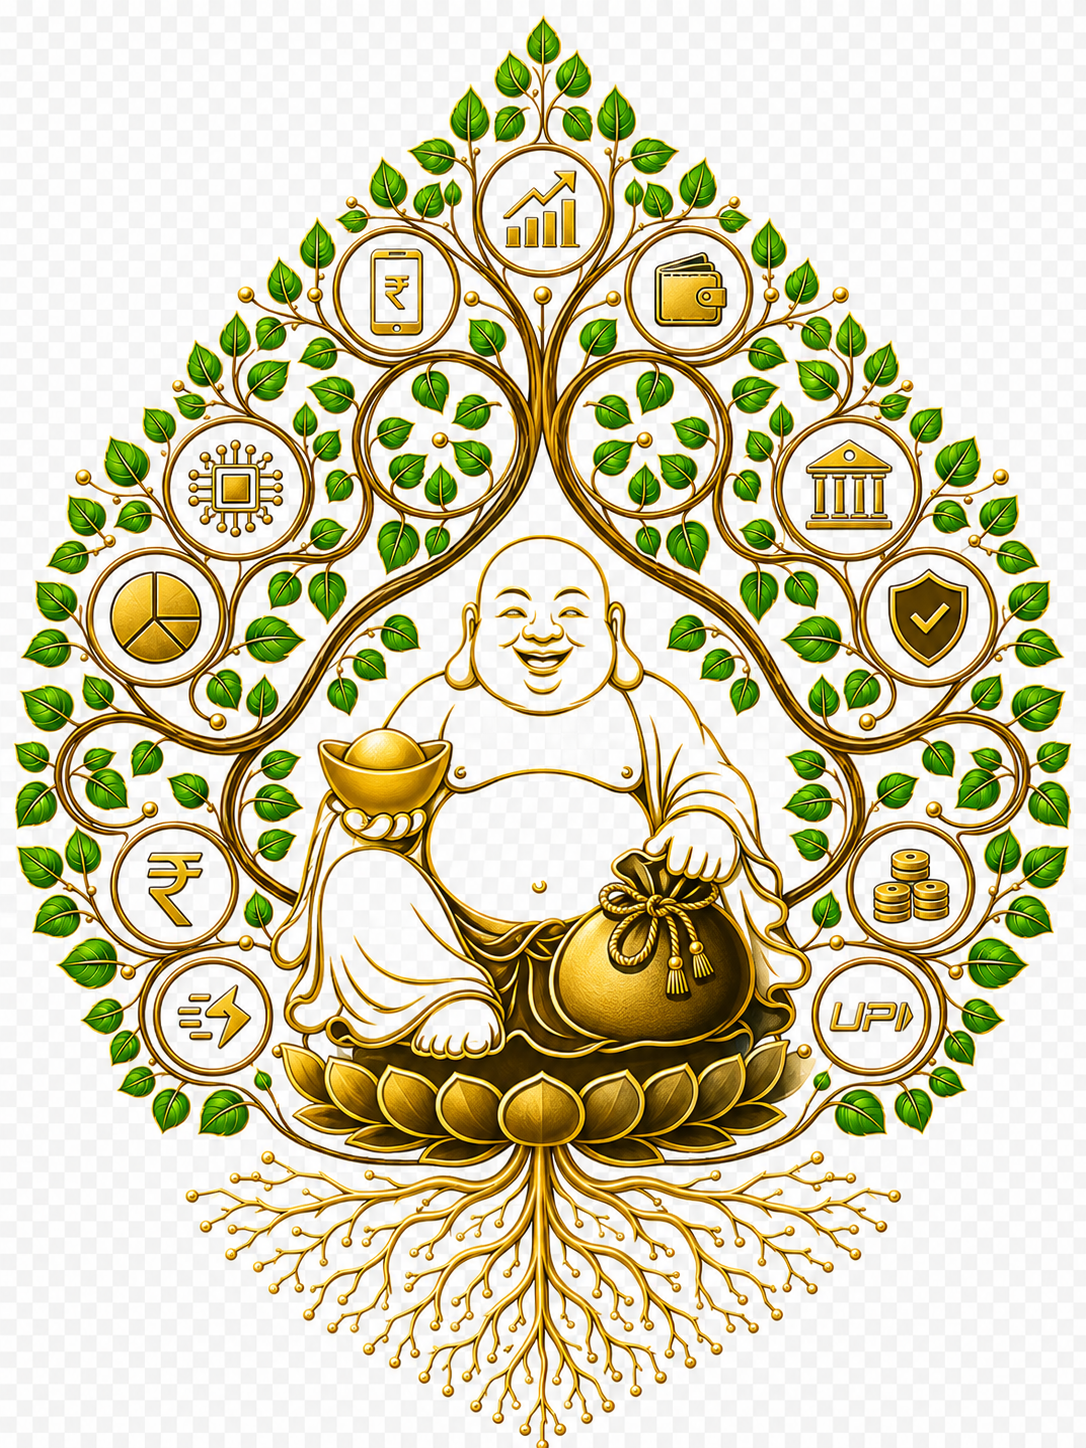
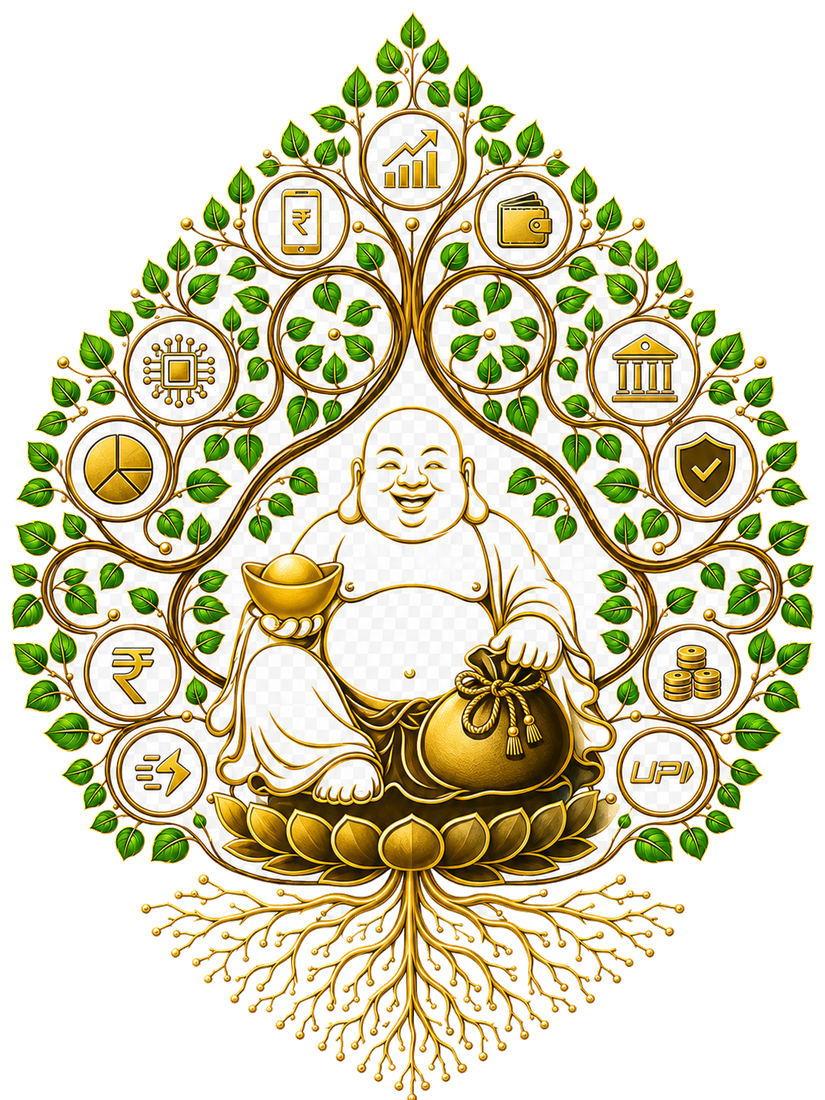
Landing: transparent emblem + FinTech "money flowing" background
- images/bodhi-fibo.png: the source was RGB (opaque) so its white background showed
  as a box on the dark landing. Flood-filled the border-connected background to true
  transparency (RGBA), preserving the figure's ink; resized + optimized (2.3MB -> 1.4MB).
  It now reads as a gold/green line emblem on transparency.
- index.html: replaced the plain spark dots with a FinTech ambient background — money
  symbols (₹ $ € £ ¥ ₿ %) and coins gently flowing upward, plus a few sparkles; subtle
  (low alpha) so it never competes with the emblem or copy. Respects reduced-motion.
- Service worker cache bumped to v0.4.0.

Gate green; no CDN.

diff --git a/index.html b/index.html
@@ -170,29 +170,62 @@
   <footer>Open&nbsp;source · MIT · Curated FIBO for financial AI &nbsp;·&nbsp; <a href="https://github.com/AI-First-Community/Bodhi" target="_blank" rel="noopener">inspired by <b>Bodhi&nbsp;Map</b></a></footer>
 
   <script>
+    // FinTech ambient background: money symbols + coins gently "flowing" upward, with a
+    // few sparkle dots. Subtle (low alpha) so it never competes with the emblem or text.
     (function () {
       var c = document.getElementById('spark'), x = c.getContext('2d');
       var DPR = Math.min(window.devicePixelRatio || 1, 2), W, H, parts;
       var reduce = window.matchMedia && window.matchMedia('(prefers-reduced-motion: reduce)').matches;
+      var SYMS = ['₹', '$', '€', '£', '¥', '₿', '%'];   // ₹ $ € £ ¥ ₿ %
       function rnd(a, b){ return a + Math.random() * (b - a); }
       function size(){ W = c.width = innerWidth * DPR; H = c.height = innerHeight * DPR; }
-      function make(){ return { x: rnd(0, W), y: rnd(0, H), r: rnd(.5, 1.8) * DPR, vy: -rnd(.04, .26) * DPR,
-        vx: rnd(-.08, .08) * DPR, ph: rnd(0, 6.28), tw: rnd(.6, 1.7), gold: Math.random() < 0.42 }; }
-      function init(){ size(); var n = Math.max(30, Math.min(80, Math.floor(innerWidth / 18))); parts = []; for (var i=0;i<n;i++) parts.push(make()); }
+      function make(reset){
+        var roll = Math.random();
+        var kind = roll < 0.5 ? 'sym' : (roll < 0.72 ? 'coin' : 'dot');
+        return {
+          kind: kind,
+          x: rnd(0, W), y: reset ? H + rnd(10, 60) * DPR : rnd(0, H),
+          sz: (kind === 'dot' ? rnd(0.6, 1.9) : rnd(11, 26)) * DPR,
+          vy: -rnd(0.06, 0.34) * DPR,            // rising = money flowing up
+          vx: rnd(-0.07, 0.07) * DPR,
+          ph: rnd(0, 6.28), tw: rnd(0.5, 1.5),
+          glyph: SYMS[(Math.random() * SYMS.length) | 0],
+          gold: Math.random() < 0.62,
+          rot: rnd(-0.35, 0.35)
+        };
+      }
+      function init(){ size(); var n = Math.max(26, Math.min(70, Math.floor(innerWidth / 22))); parts = []; for (var i = 0; i < n; i++) parts.push(make(false)); }
+      function drawOne(p, t){
+        var col = p.gold ? '#f3c969' : '#7df0aa';
+        if (p.kind === 'dot'){
+          x.globalAlpha = 0.22 + 0.4 * (0.5 + 0.5 * Math.sin(t * p.tw + p.ph));
+          x.fillStyle = col; x.beginPath(); x.arc(p.x, p.y, p.sz, 0, 6.2832); x.fill();
+        } else if (p.kind === 'coin'){
+          x.globalAlpha = 0.10 + 0.10 * (0.5 + 0.5 * Math.sin(t * p.tw + p.ph));
+          x.strokeStyle = col; x.lineWidth = 1.4 * DPR;
+          x.beginPath(); x.arc(p.x, p.y, p.sz * 0.5, 0, 6.2832); x.stroke();
+          x.beginPath(); x.arc(p.x, p.y, p.sz * 0.28, 0, 6.2832); x.stroke();
+        } else {
+          x.globalAlpha = 0.09 + 0.11 * (0.5 + 0.5 * Math.sin(t * p.tw + p.ph));
+          x.fillStyle = col;
+          x.font = '700 ' + p.sz.toFixed(0) + "px Manrope,-apple-system,system-ui,sans-serif";
+          x.textAlign = 'center'; x.textBaseline = 'middle';
+          x.save(); x.translate(p.x, p.y); x.rotate(p.rot); x.fillText(p.glyph, 0, 0); x.restore();
+        }
+      }
       var t = 0;
       function frame(){
-        x.clearRect(0,0,W,H); t += 0.016;
-        for (var i=0;i<parts.length;i++){
+        x.clearRect(0, 0, W, H); t += 0.016;
+        for (var i = 0; i < parts.length; i++){
           var p = parts[i]; p.y += p.vy; p.x += p.vx;
-          if (p.y < -8) { parts[i] = make(); parts[i].y = H + 8; }
-          x.globalAlpha = 0.25 + 0.4 * (0.5 + 0.5 * Math.sin(t * p.tw + p.ph));
-          x.fillStyle = p.gold ? '#f3c969' : '#7df0aa';
-          x.beginPath(); x.arc(p.x, p.y, p.r, 0, 6.2832); x.fill();
+          if (p.y < -30 * DPR) parts[i] = make(true);
+          drawOne(parts[i], t);
         }
+        x.globalAlpha = 1;
         requestAnimationFrame(frame);
       }
       init();
-      if (reduce){ x.globalAlpha=.5; for (var i=0;i<parts.length;i++){ x.fillStyle=parts[i].gold?'#f3c969':'#7df0aa'; x.beginPath(); x.arc(parts[i].x,parts[i].y,parts[i].r,0,6.2832); x.fill(); } }
+      if (reduce){ for (var i = 0; i < parts.length; i++) drawOne(parts[i], 0); x.globalAlpha = 1; }
       else frame();
       window.addEventListener('resize', init);
     })();

diff --git a/service-worker.js b/service-worker.js
@@ -1,7 +1,7 @@
 /* Bodhi Map for FIBO — service worker (offline + installable PWA).
    Precaches the app shell so the map works offline after install; runtime-caches
    everything else same-origin (cache-first). Bump CACHE to invalidate. */
-const CACHE = 'bodhi-fibo-v0.3.0';
+const CACHE = 'bodhi-fibo-v0.4.0';
 const PRECACHE = [
   './', './index.html', './app.html',
   './css/style.css',